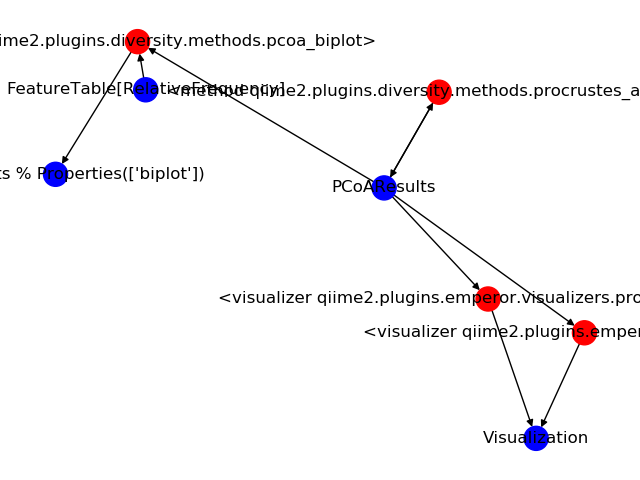
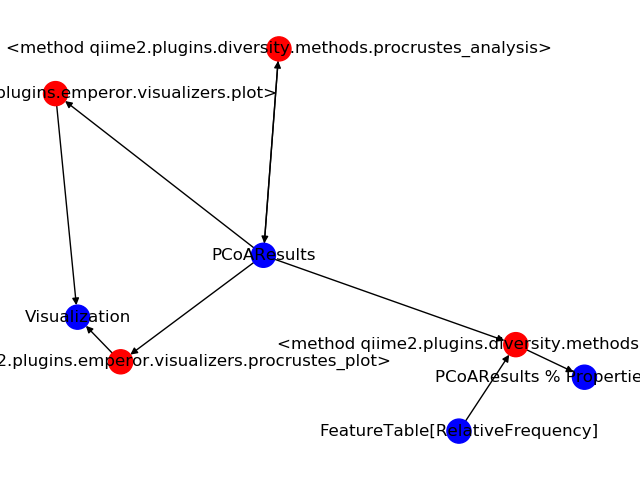
updated to contain combinations

diff --git a/network.py b/network.py
@@ -57,30 +57,62 @@ def buildGraph():
     for plugin in q2methods:
         method_list = plugin[1]
         for method in method_list:
-            if not G.has_node(method):
-                G.add_node(method,value=method, color='red')
+            #check if there are any combinations in parameters
             req_in, non_req_in = getNextParam(method,1)
-            if non_req_in:
-                print("COMBINATIONS: ")
-                print(getCombinations(non_req_in))
-            for key in req_in:
-                if not G.has_node(key):
-                    G.add_node(key, value=key, color='blue')
-                G.add_edge(key, method)
-            for key in req_in:
-                if not G.has_node(key):
-                    G.add_node(key, value=key, color='blue')
-                G.add_edge(key, method)
-
             req_out, non_req_out = getNextParam(method,0)
+
+            #add keys to graph
+            for key in req_in:
+                if not G.has_node(key):
+                    G.add_node(key, value=key, color='blue')
+            for key in non_req_in:
+                if not G.has_node(key):
+                    G.add_node(key, value=key, color='blue')
             for key in req_out:
                 if not G.has_node(key):
                     G.add_node(key, value=key, color='blue')
-                G.add_edge(method, key)
             for key in non_req_out:
                 if not G.has_node(key):
                     G.add_node(key, value=key, color='blue')
-                G.add_edge(method, key)
+
+            #there are combinations
+            if non_req_in:
+                #construct combinations
+                print("COMBINATIONS: ")
+                print(getCombinations(non_req_in))
+                combs = getCombinations(non_req_in)
+
+                for non_req in combs:
+                    print("DEBUG")
+                    print(non_req)
+                    new_method_key= str(method)
+                    str_non_req = [str(i) for i in non_req]
+                    if str_non_req:
+                        non_req_key = ";".join(str_non_req)
+                        new_method_key += ";"+non_req_key
+                    print("new method"+new_method_key)
+
+                    #check if there exists a method node with same in-edges
+                    if not G.has_node(new_method_key):
+                        G.add_node(new_method_key,value=method,color='red')
+                        for key in req_in:
+                            G.add_edge(key, new_method_key)
+                        for key in non_req:
+                            G.add_edge(key, new_method_key)
+                        for key in req_out:
+                            G.add_edge(new_method_key, key)
+                        for key in non_req_out:
+                            G.add_edge(new_method_key, key)
+            else:
+                if not G.has_node(method):
+                    G.add_node(method,value=method,color='red')
+                for key in req_in:
+                    G.add_edge(key, method)
+                for key in req_out:
+                    G.add_edge(method, key)
+                for key in non_req_out:
+                    G.add_edge(method, key)
+
 
 buildGraph()
 c_map = [n[1]['color'] for n in list(G.nodes(data=True))]
@@ -89,6 +121,11 @@ print()
 nx.draw(G, node_color=c_map, with_labels=True)
 plt.draw()
 plt.show()
+plt.savefig('graph2.png')
 
 
+for i in G.nodes:
+    print(i)
+    print(G.in_edges(nbunch=i))
+    print()
 
